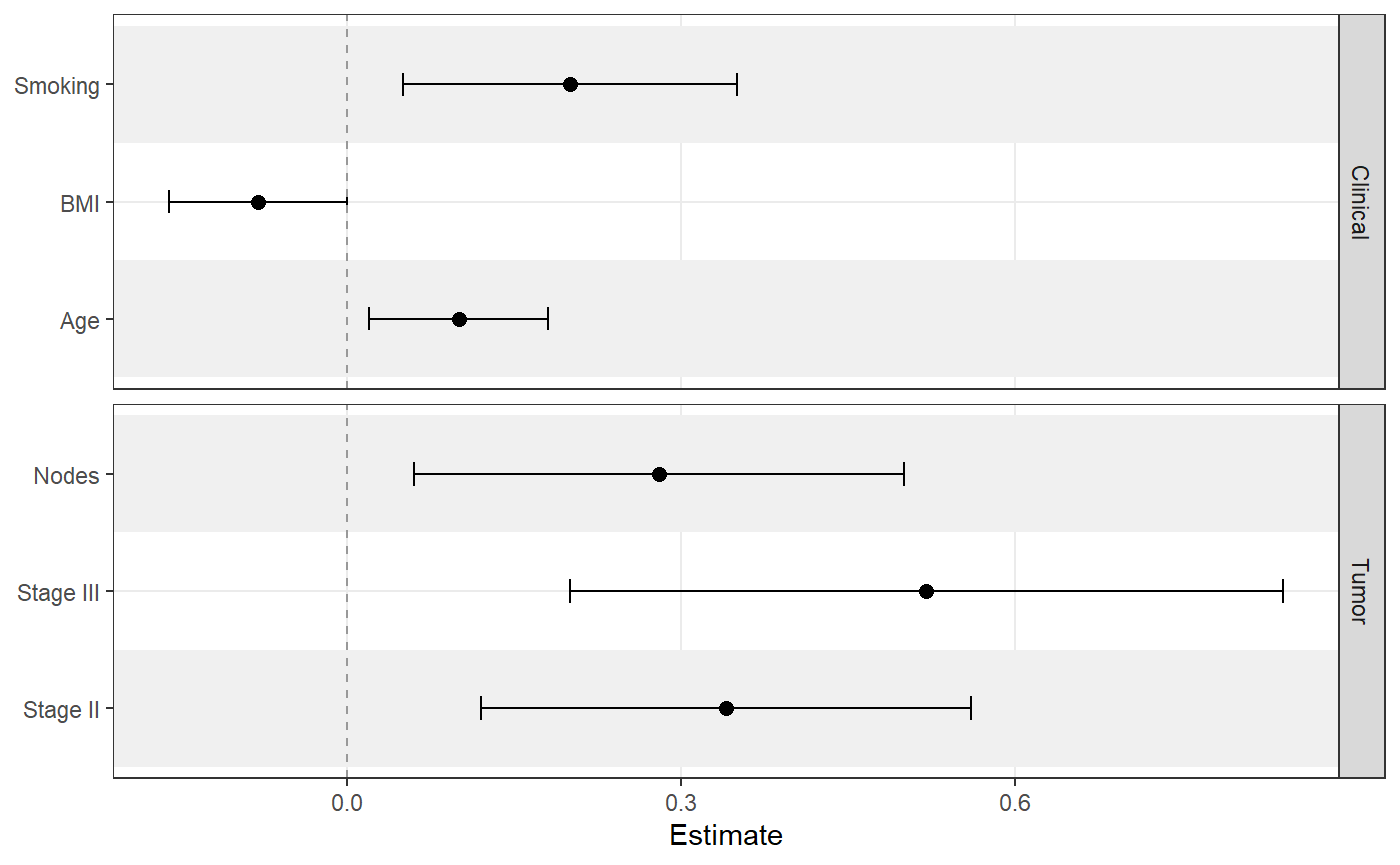
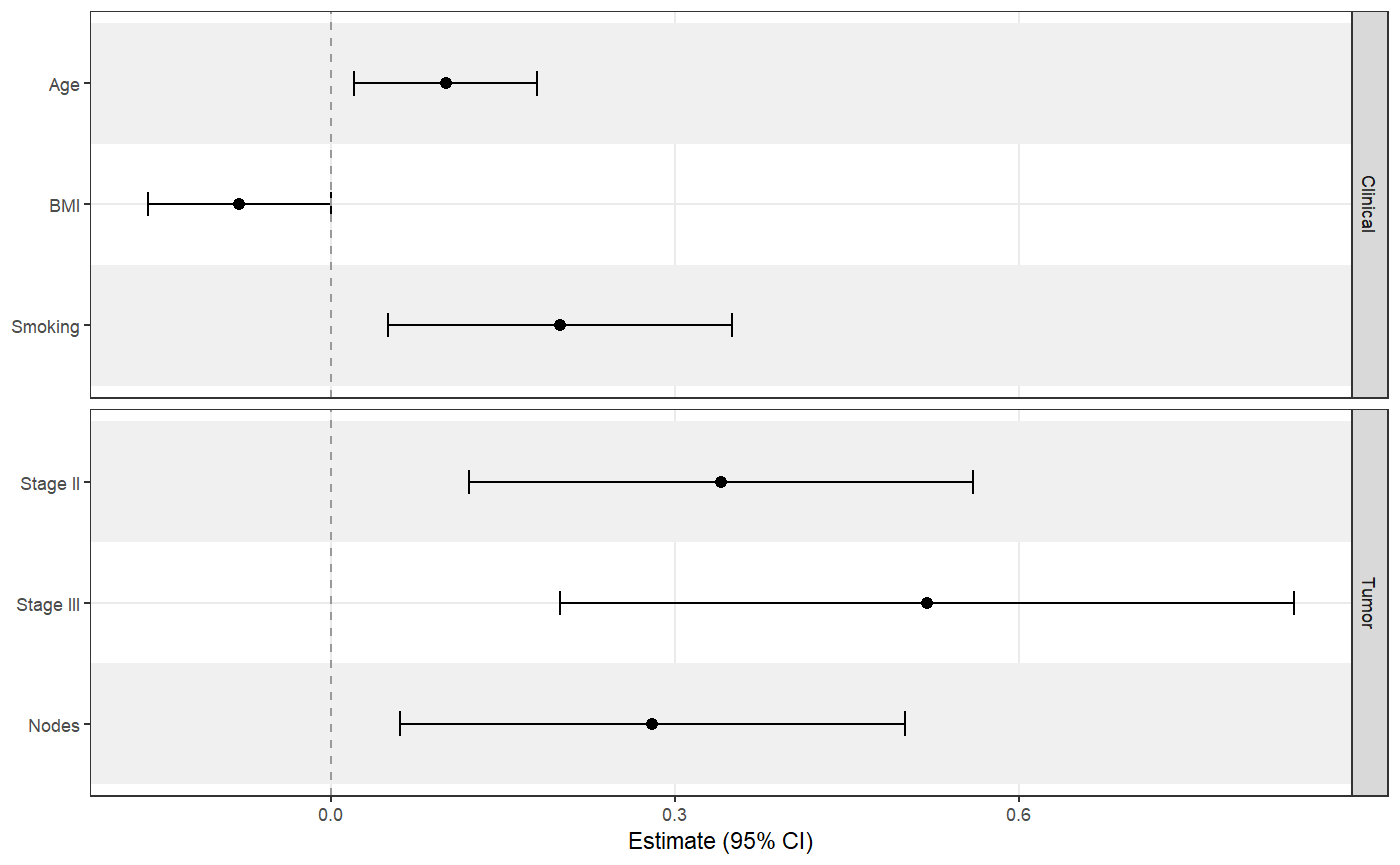
Render forest rows consistently in top-to-bottom data order

diff --git a/NEWS.md b/NEWS.md
@@ -1,5 +1,11 @@
 # ggforestplotR (development version)
 
+## Breaking changes
+
+- Forest-plot rows now always read top-to-bottom in data order. Previously, plots without structured rows or subgroups were drawn bottom-to-top, so adding a single header or subgroup inverted the plot, and `sort_terms = "descending"` placed the largest estimate at the bottom.
+
+## Changes
+
 - Adding scales or tables to a forest plot no longer modifies the original plot object's stripe and separator layers.
 
 - `point_size` now accepts a numeric source column name, such as `"N"`, to
